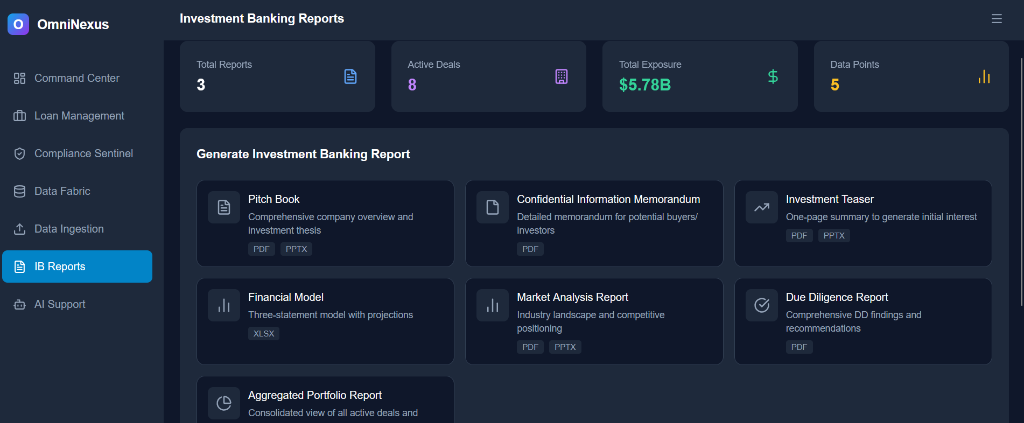
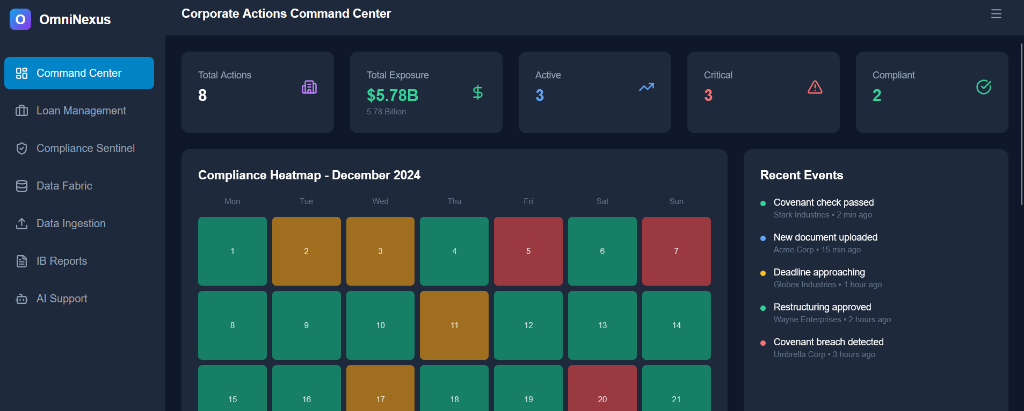
Add OmniNexus Command Center dashboard screenshot for laptop texture

diff --git a/app/routes/projects.omninexus/omninexus.jsx b/app/routes/projects.omninexus/omninexus.jsx
@@ -1,6 +1,4 @@
-import sprTextureLarge from '~/assets/spr-lesson-builder-dark-large.jpg';
-import sprTexturePlaceholder from '~/assets/spr-lesson-builder-dark-placeholder.jpg';
-import sprTexture from '~/assets/spr-lesson-builder-dark.jpg';
+import omninexusDashboard from '~/assets/omninexus-dashboard.png';
 import { Footer } from '~/components/footer';
 import { Link } from '~/components/link';
 import { useTheme } from '~/components/theme-provider';
@@ -73,8 +71,8 @@ export const OmniNexus = () => {
                                             {
                                                 ...deviceModels.laptop,
                                                 texture: {
-                                                    srcSet: `${sprTexture} 1280w, ${sprTextureLarge} 2560w`,
-                                                    placeholder: sprTexturePlaceholder,
+                                                    srcSet: `${omninexusDashboard} 1280w, ${omninexusDashboard} 2560w`,
+                                                    placeholder: omninexusDashboard,
                                                     sizes: laptopSizes,
                                                 },
                                             },

diff --git a/app/routes/home/home.jsx b/app/routes/home/home.jsx
@@ -13,6 +13,7 @@ import gamestackTexture2 from '~/assets/gamestack-list.jpg';
 import chronosDashboard from '~/assets/chronos-dashboard.png';
 import transactiqDashboard from '~/assets/transactiq-dashboard.png';
 import apexDashboard from '~/assets/apex-dashboard.png';
+import omninexusDashboard from '~/assets/omninexus-dashboard.png';
 import { Footer } from '~/components/footer';
 import { baseMeta } from '~/utils/meta';
 import { Intro } from './intro';
@@ -187,8 +188,8 @@ export const Home = () => {
           alt: 'OmniNexus Platform Dashboard',
           textures: [
             {
-              srcSet: `${sliceTexture} 800w, ${sliceTextureLarge} 1920w`,
-              placeholder: sliceTexturePlaceholder,
+              srcSet: `${omninexusDashboard} 1280w, ${omninexusDashboard} 2560w`,
+              placeholder: omninexusDashboard,
             },
           ],
         }}
